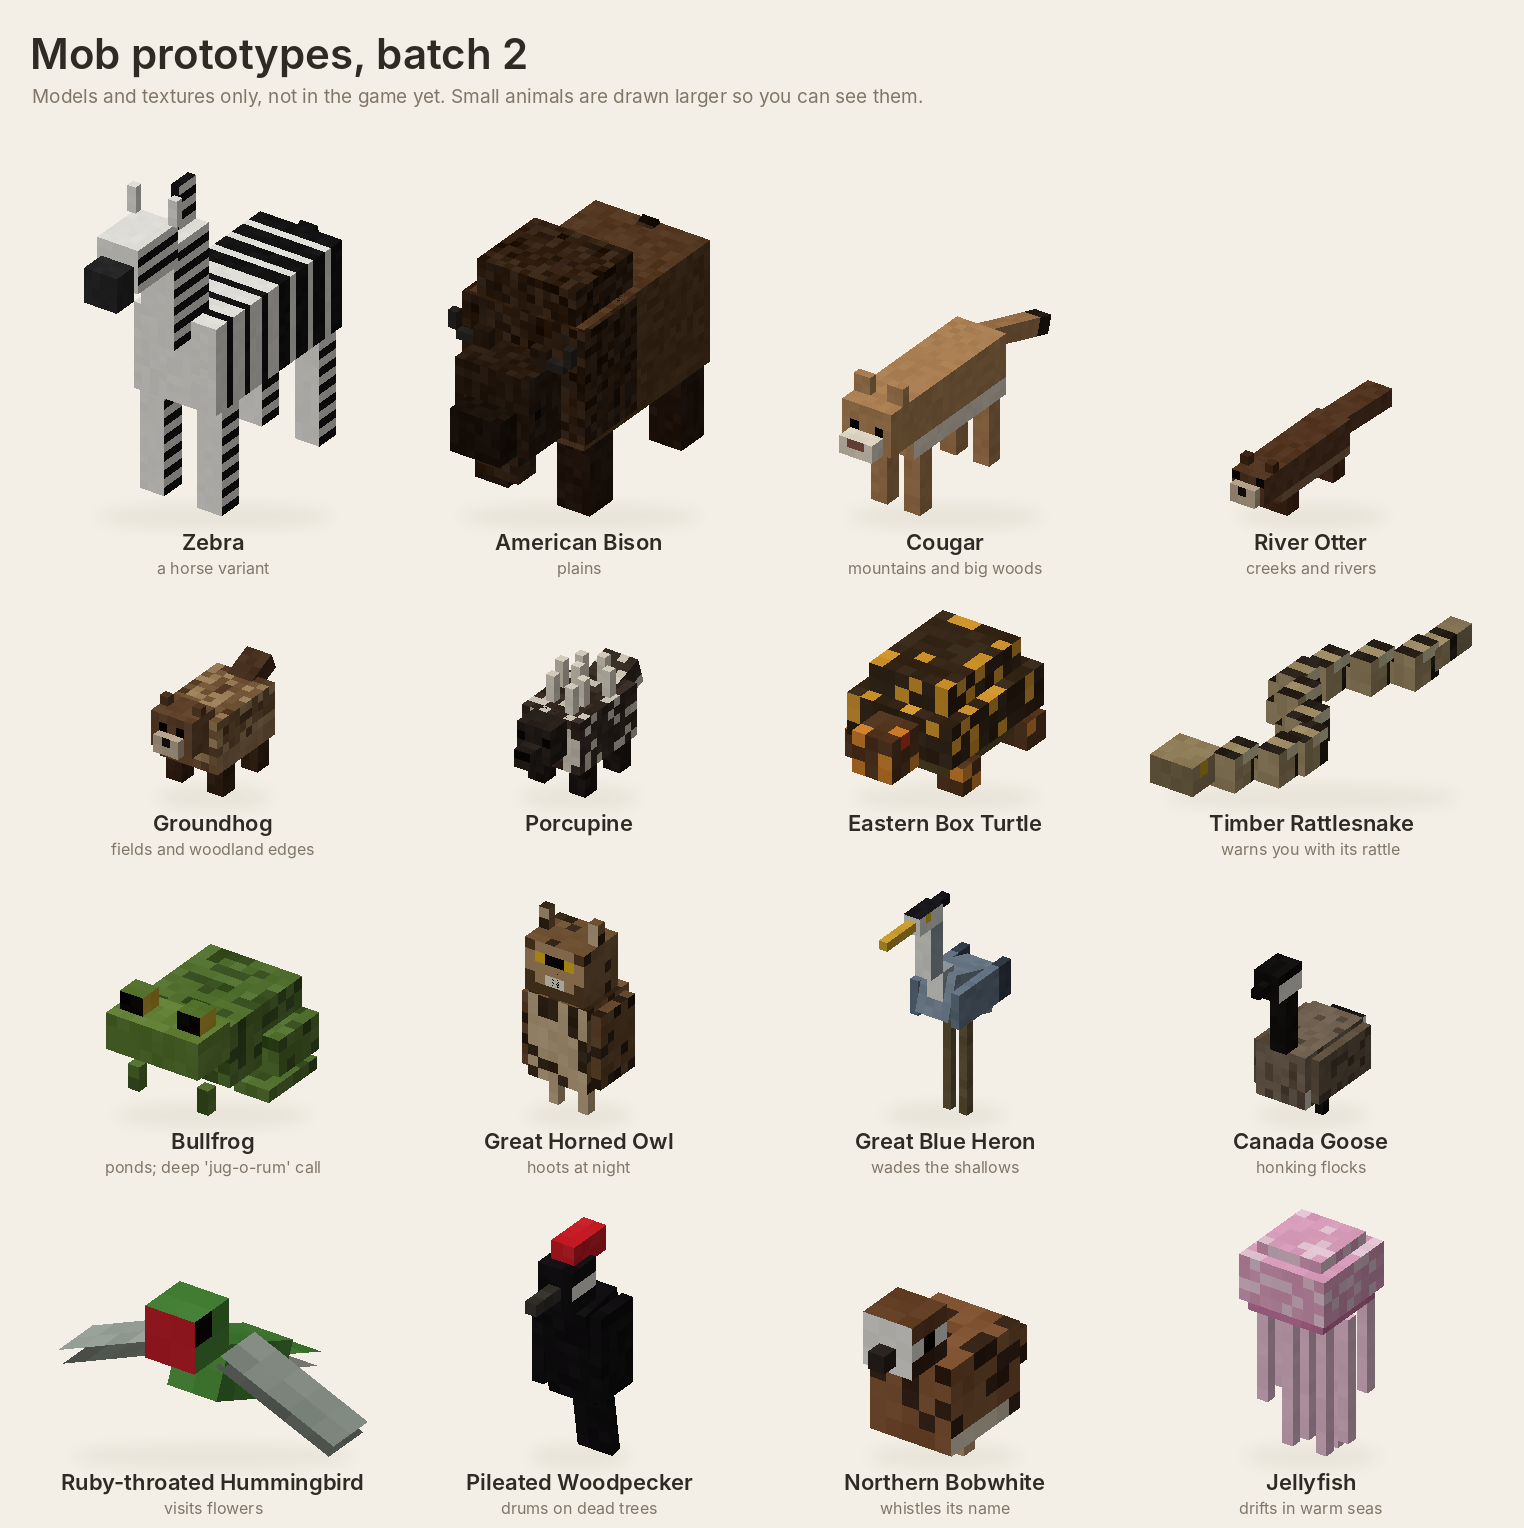
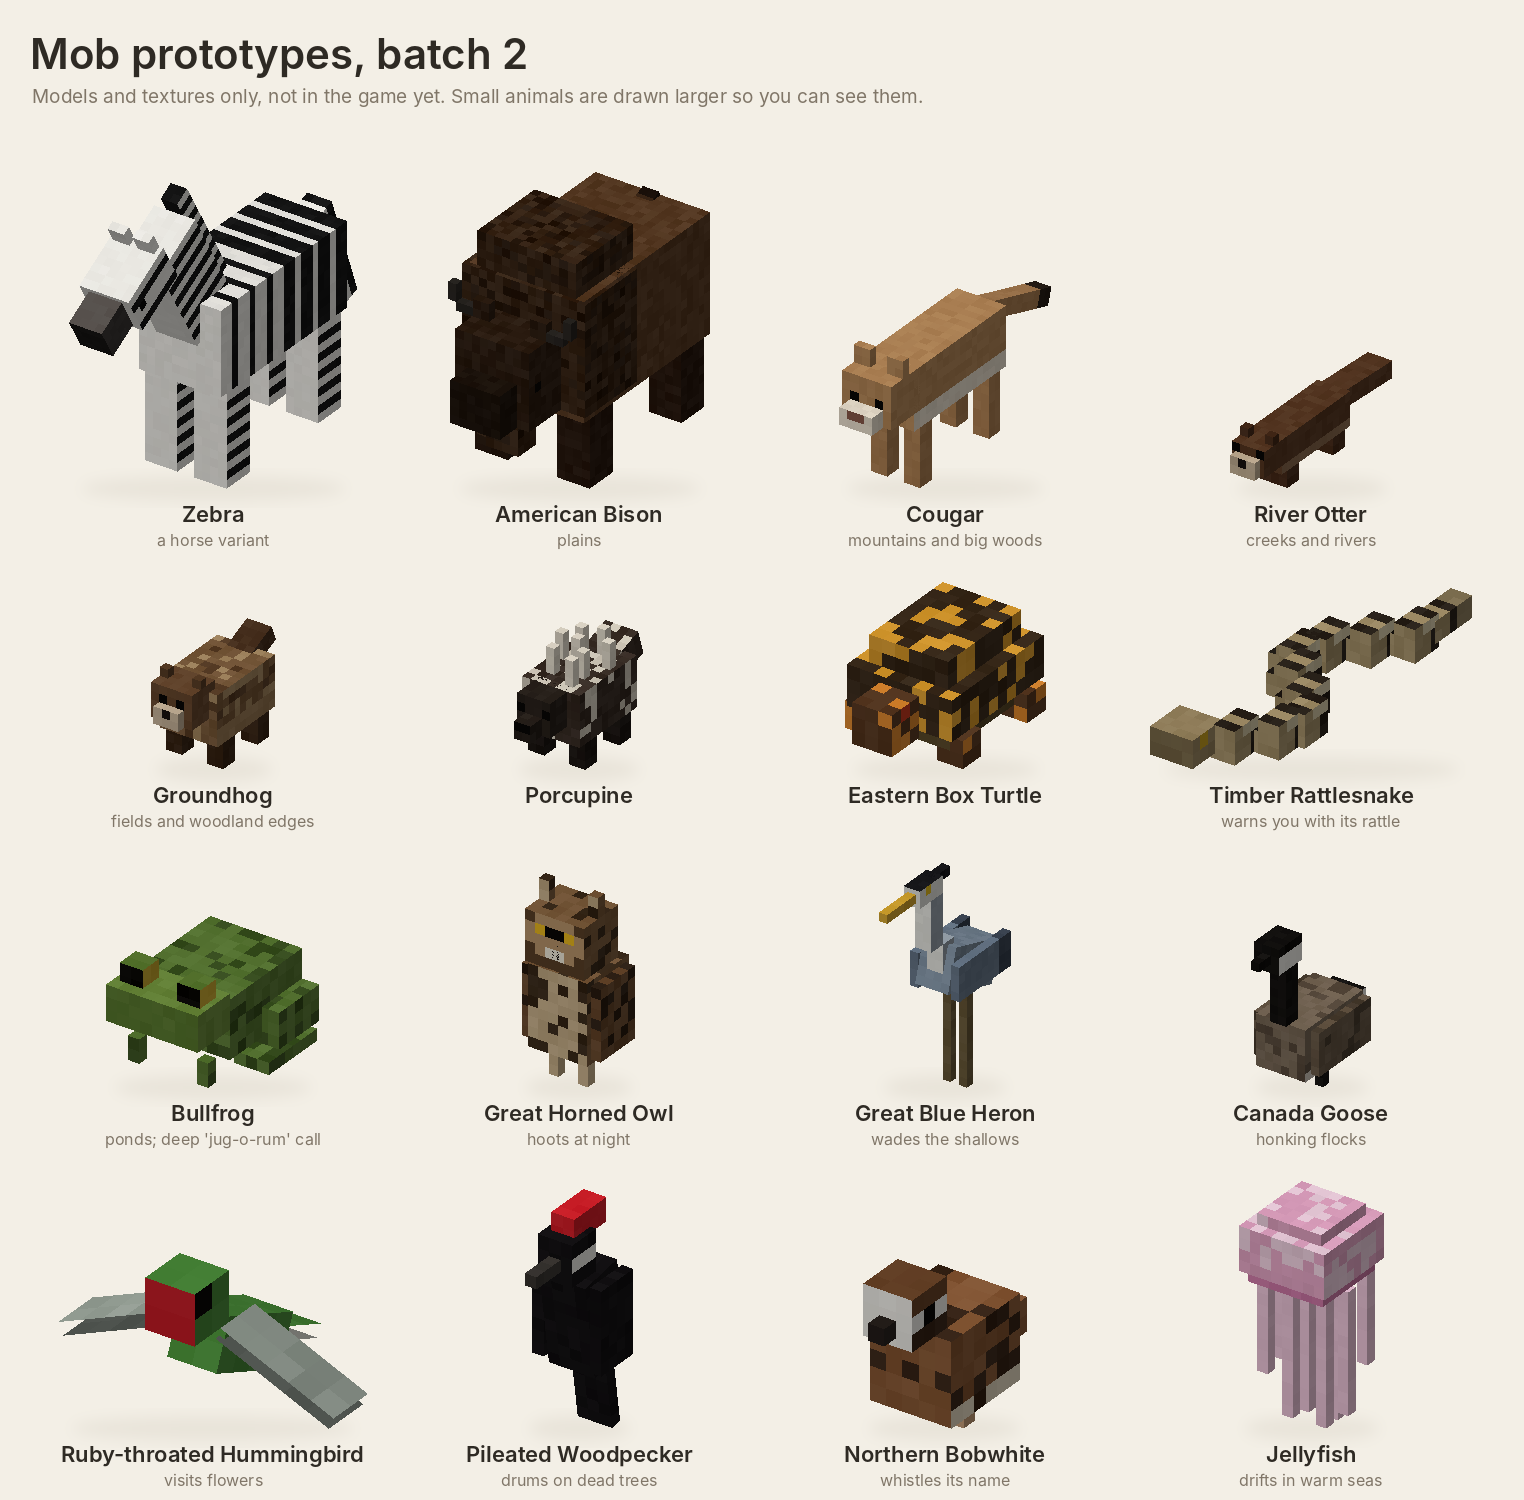
Prototype zebra: horse proportions with an angled neck and a tapered head
Claude-Session: https://claude.ai/code/session_01M5QtgiQGYPBXfdb72XCowG

diff --git a/tools/prototypes2.py b/tools/prototypes2.py
@@ -14,14 +14,27 @@ P = []
 def add(label, sub, parts, style, scale=1.0): P.append((label, sub, parts, style, scale))
 
 # ---- Zebra: a horse variant with bold stripes and an upright two-tone mane
-zebra = cervid((10, 10, 22), (3, 12), -8, neck=((-2, -2, -4), (4, 12, 6)), head=((-2.5, -5, -11), (5, 5, 7)), snout=((-2, -3, -14), (4, 4, 3)),
-               ears=((-3, -8, -5), (1, 3, 1)), tail=((-1, 0, 0), (2, 10, 2), 0.35),
-               extra_head=[box("mane", (-0.5, -7, -1), (1, 13, 3), "mane2")])
+def equine():
+    """Horse proportions: deep body on sturdy legs, the neck angled forward, a long head with a tapered muzzle."""
+    body = [box("body", (-5, -5, -11), (10, 10, 22), "body")]
+    head = [box("neck", (-2.5, -12, -3.5), (5, 13, 7), "mane"),
+            box("head", (-3, -15, -9), (6, 5, 7), "head"),
+            box("muzzle", (-2, -14.5, -13), (4, 4, 4), "snout"),
+            box("crest", (-1, -14, 3.5), (2, 14, 2), "mane2"),
+            box("ear_r", (-2.5, -17, -3), (2, 2, 1), "ear"), box("ear_l", (0.5, -17, -3), (2, 2, 1), "ear", mirror=True)]
+    ps = [part("body", (0, 8, 0), body, "body"),
+          part("head", (0, 5, -9), head, "head", rot=(0.52, 0, 0)),
+          part("tail", (0, 4, 10.5), [box("tail", (-1.5, 0, 0), (3, 13, 3), "tail")], "tail", rot=(0.35, 0, 0))]
+    for nm, sx, sz in [("leg_rf", -1, -1), ("leg_lf", 1, -1), ("leg_rb", -1, 1), ("leg_lb", 1, 1)]:
+        ps.append(part(nm, (sx * 3, 13, sz * 8), [box("leg", (-2, 0, -2), (4, 11, 4), "leg", mirror=sx > 0)], nm))
+    return ps
+zebra = equine()
 STRIPES = ["#f2f0ea", "#161616"] * 8
 add("Zebra", "a horse variant", zebra, {
     "body": {"c": "#f2f0ea", "noise": 4, "rings": {"c": "#161616", "n": 7}},
-    "mane": {"c": "#f2f0ea", "noise": 3, "side_rows": STRIPES}, "head": {"c": "#f2f0ea", "noise": 3, "side_rows": STRIPES, "side_eyes": "#0a0a0a", "eye_row": 1},
-    "snout": {"c": "#2a2a2a", "noise": 3}, "ear": {"c": "#f2f0ea", "back": "#161616"},
+    "mane": {"c": "#f2f0ea", "noise": 3, "side_rows": STRIPES, "front": "#f2f0ea"},
+    "head": {"c": "#f2f0ea", "noise": 3, "side_rows": ["#f2f0ea", "#161616", "#f2f0ea", "#f2f0ea", "#161616"], "side_eyes": "#0a0a0a", "eye_row": 2},
+    "snout": {"c": "#3a3634", "noise": 3, "top": "#5a5450", "front": "#1e1c1a"}, "ear": {"c": "#f2f0ea", "back": "#161616"},
     "leg": {"c": "#f2f0ea", "noise": 3, "side_rows": STRIPES, "bottom": "#161616"}, "tail": {"c": "#f2f0ea", "tip": {"c": "#161616", "frac": 0.4}},
     "mane2": {"c": "#161616", "noise": 3, "side_rows": STRIPES}})
 
